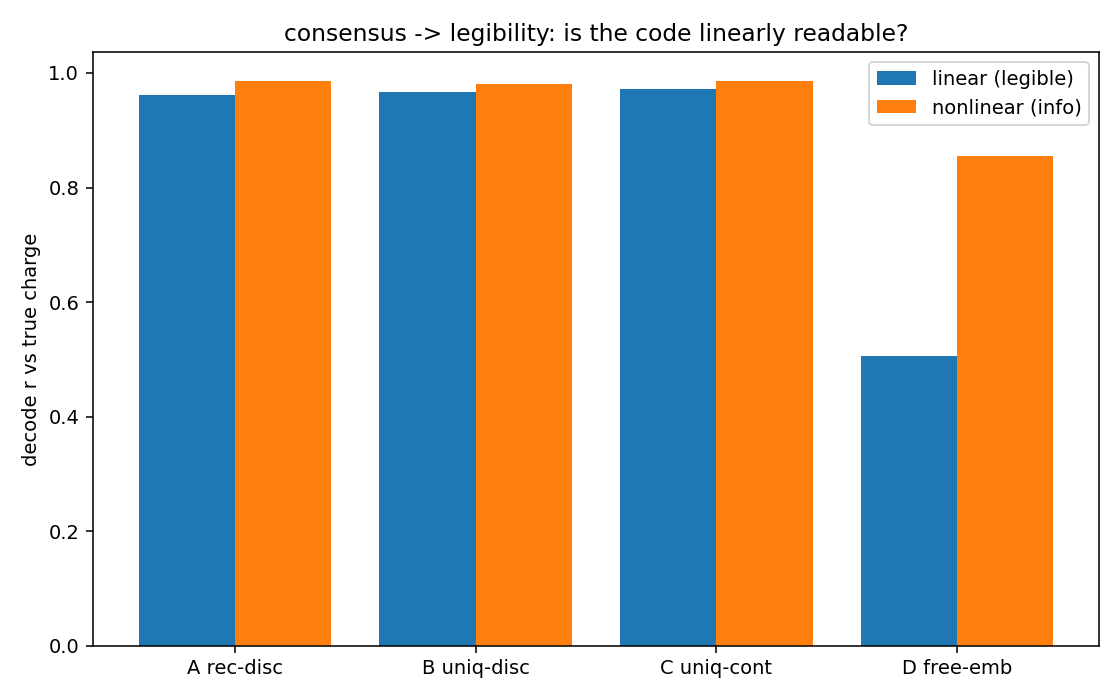
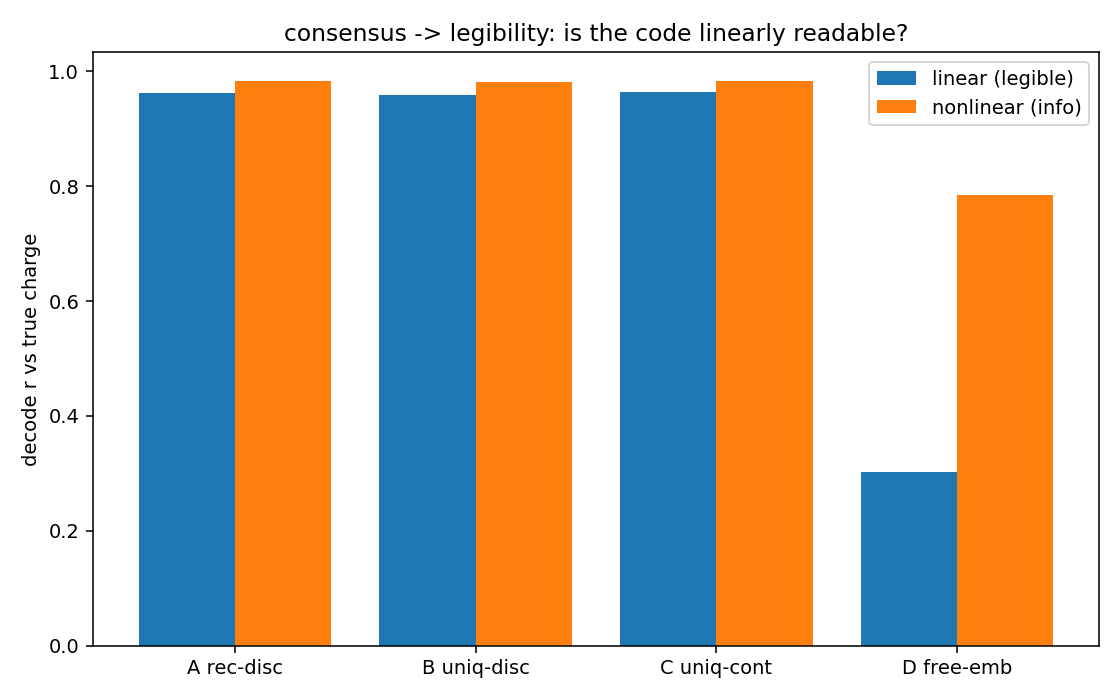
Docs consolidation: fold the full generalist arc (G, I, H) into all docs
Brings every doc current with the 2026-06-15 stretch so nothing is lost:
- CLAUDE.md status block: Phase G (data-scaling + G3 world-space prize), G-sym
  (symmetry frame + accuracy/legibility tension), Phase I (the legibility law:
  amortization, not agreement), Phase H row 1 (knee=2) + row 2 (Wong boundary),
  the synthesis, and a refreshed queue (orthogonal-F Wong v3, entanglement
  bridge Phase J, friction/equivalence-breaking rows).
- README curvature row: G/H/I one-liners.
- curvature_field_guide.md: new "7.5 The generalist arc" section (G, G-sym, I, H),
  patterns updated (legibility question now answered; stage/actor = a symmetry),
  never-tried refreshed (orthogonal-F, geometry-from-entanglement).
- emergent_geometry.md: generalist-arc paragraph in "where it goes next" (full
  polish deferred to the user's weekend pass).
- 29_consensus.json/.png updated to the final 3-seed run.

diff --git a/writeups/curvature_field_guide.md b/writeups/curvature_field_guide.md
@@ -1,9 +1,11 @@
 # The Curvature Project — Complete Field Guide
 
-*Everything we did in Phases A→E (and all side quests): what each experiment was,
-how it actually worked, what it found, what surprised us, and — most importantly —
-the threads we noticed but never pulled. Written plainly, for thinking with.
-(The polished narrative is `emergent_geometry.md`; this is the workshop version.)*
+*Everything we did, Phases A→E through the generalist arc (F-closed, G, the
+legibility law I, and the H geometrization survey) and all side quests: what each
+experiment was, how it actually worked, what it found, what surprised us, and —
+most importantly — the threads we noticed but never pulled. Written plainly, for
+thinking with. (The polished narrative is `emergent_geometry.md`; this is the
+workshop version.)*
 
 ---
 
@@ -301,26 +303,105 @@ relabeling can fake. The project's title question, closed.
   width binds — **knee-counting needs near-oracle inference**. Parked with that
   honest verdict. (The projective smear — "the code carries a direction, not a
   vector" — was predicted by your second-opinion session and visible in our data.)
-- **Phase F (current, the law itself):** matter configs → geometry, trajectories
-  only. Honest null so far — but the one gate that PASSED is provocative: field
-  *direction* superposes on never-seen 3-mass worlds (cos 0.965) while magnitude
-  fails. Diagnostics proved the wall is the CNN's local receptive field vs the
-  long-range 1/r kernel (can't even overfit one batch; capacity and data don't
-  help). The RF sweep now running is the clean one-knob proof. Honest context:
-  this corner overlaps the established neural-operator field (FNO etc.) — the
-  fix is known science; remaining novelty here is modest.
+- **Phase F (the law itself) — CLOSED, honest null.** matter configs → geometry,
+  trajectories only. The one gate that PASSED is provocative: field *direction*
+  superposes on never-seen 3-mass worlds (cos 0.965) while magnitude fails.
+  Diagnostics proved the wall is the CNN's local receptive field vs the long-range
+  1/r kernel (can't even overfit one batch; capacity and data don't help); the RF
+  sweep confirmed F2 climbs 0.85→0.99 with reach. This corner overlaps the
+  established neural-operator field (FNO etc.) — fix is known science, novelty
+  modest — so F-v3 was deliberately skipped for the generalist arc below.
+
+---
+
+## 7½. The generalist arc — Phases G, I, H (the 2026-06-15 stretch)
+
+After Phase F, the project pivoted (user's redirect) from *one net per world* to
+**one generalist across all world families**, and from accuracy to a deeper
+question: **what makes a learned representation legible?**
+
+**Phase G — the generalist + its world-summary space.** A 2M-param transformer
+reads a handful of observations from *some* world (same-event pairs, trajectory
+snippets, matter blobs — family never given), pools a 64-number summary `w`, and
+answers queries. Data scaling (24k→60k→120k episodes) helps monotonically but the
+charge-gated families sit ~300× above the per-family specialist floor — the wall
+is the single global **mean-pool**, not data. The prize was never accuracy though:
+it's `w`. Probing it (G3): the families **cluster into a physics taxonomy** (ARI
+0.82 — flat spacetimes apart, pure-geometry wells isolated, the three
+EM-coupled worlds in one neighborhood), and **electromagnetism is its own region**
+— chargedE and magneticB sit 2× closer to each other than to gravity (z=27 vs a
+shuffled null). The net drew a map of *laws*, unprompted. (Ties straight to the
+It-from-Qubit "is there a geometry to the space of laws?" thread.)
+
+**The dilemma, and how a symmetry dissolved it (Phase G-sym).** The mean-pool is
+**permutation-invariant over bodies** — which is the *equivalence principle in
+disguise*: an invariant code can only keep what survives relabeling bodies
+(geometry), and is structurally forbidden from keeping the tag→charge binding. So
+the stage/actor split isn't a design choice, it's the **invariant/equivariant
+decomposition under body-relabeling symmetry** — and imposing that symmetry is the
+same fair move as Phase A's boost-invariant head. (Frame contributed by a parallel
+Claude session; credited.) The fix: keep the invariant pool as the legible
+world-map *and* add an **equivariant per-body channel** (each query cross-attends
+to the context). It restored accuracy (chargedE 14×, twocharge 11.5×) and the
+per-body charge now decodes from the equivariant channel (0.91) — **but at a real
+cost: the world-map's clustering dropped (0.82→0.69) as per-body info migrated out
+of it.** Accuracy and legibility *trade off*; they are not free together.
+
+**Phase I — the legibility law (the stretch's headline).** *What selects
+legibility?* A clean factorial experiment (recurrence × discreteness, with a
+free-embedding reference) gave a sharp answer: recurrence and discreteness do
+**nothing**; the entire effect is **amortization**. A per-object code that a shared
+encoder must *infer from data* is **linearly legible for free** (r≈0.97); the same
+code stored as **free per-body parameters scrambles** (linear 0.50, info hiding in
+nonlinear 0.86 — the exact Phase C signature). So:
+
+> **Legibility is selected by amortization, not by agreement or discreteness.**
+> The famous Phase C "illegible charge code" was a *free-parameter artifact*, not a
+> property of charge. Want a legible per-object code? Don't store it — *infer* it.
+
+(This also overturned a tempting "consensus → legibility" bet from the parallel
+session — the question was right, the mechanism wasn't.)
+
+**Phase H — the geometrization survey.** *Which particle-like labels become hidden
+lanes?*
+- **Row 1, two independent charges:** the practical lane-count knee lands at
+  **exactly 2** (behavioral counting, where bottleneck-counting failed in steps
+  11–12); both charges decode behaviorally at r≈0.9997; a never-seen body is
+  pinned from ~4 observed trajectories.
+- **Row 2, Wong color charge (the crown, and a boundary):** a classical SU(2)
+  charge that *parallel-transports* — it rotates as the body moves, with |Q|
+  conserved (Wong 1970, verified). Result: amortization **legibly encodes the
+  static charge** Q₀ (linear 0.79–0.92, Phase I confirmed in a new setting), **but
+  the rotating Q(t) is tracked only nonlinearly** (linear 0.29–0.46 / nonlinear
+  0.66–0.76) and |Q| isn't conserved. **The refinement: amortization buys
+  legibility for *static* codes, but a generic recurrent update re-scrambles a
+  *dynamic* conserved quantity as it evolves.** Static labels geometrize (electric
+  charge, color Q₀); the dynamic SU(2) rotation does not — a sharp survey boundary.
+
+**The synthesis of the stretch (one sentence):** *amortize and you get legibility
+for free — but only for static codes; representing a dynamic conserved quantity
+legibly needs structure that preserves its invariant, which a plain learned update
+does not provide.*
 
 ---
 
 ## 8. The recurring patterns (the real harvest, maybe)
 
-1. **Gauge freedom is everywhere.** Phase B's per-anchor relabeling, C's
-   illegible embeddings, MDL's lookup-table code, D-v2's Lagrangian equivalence
-   class, E's global scale. Every honest gate we built works by finding the
-   quantity that *survives* the freedom. The deep question we never asked
-   head-on: **what kind of training pressure selects the HUMAN-legible gauge?**
-   Nature's laws are written in the elegant gauge — why? Can a system be made to
-   prefer it?
+1. **Gauge freedom is everywhere** — and we finally got a partial answer to the
+   deep question. Phase B's per-anchor relabeling, C's illegible embeddings, MDL's
+   lookup-table code, D-v2's Lagrangian equivalence class, E's global scale: every
+   honest gate works by finding the quantity that *survives* the freedom. The
+   question we'd never asked head-on — *what selects the human-legible gauge?* —
+   **Phase I answered for per-object codes: amortization.** A code inferred by a
+   shared encoder lands in the legible (linear) gauge for free; a free per-object
+   parameter scrambles. (Refinement from Wong row 2: this holds for *static* codes
+   only — a generic recurrent update re-scrambles a dynamic one. Selecting the
+   legible gauge for *dynamics* needs invariant-preserving structure — open.)
+5. **The stage/actor split is a symmetry, not a choice** (Phase G-sym). What's
+   shared by all bodies (geometry) vs what distinguishes them (charge) is exactly
+   the invariant/equivariant decomposition under body-relabeling — the equivalence
+   principle, re-derived as representation theory. It re-derives Phase C's
+   0-vs-1-number-per-body count from symmetry alone.
 2. **Behavioral probes beat structural probes.** Every time we tested *what the
    net does* (swap tests, trajectory inversion, zero-shot fitting), we got clean
    answers; every time we tested *what the net looks like inside* (PCA, linear
@@ -337,6 +418,16 @@ relabeling can fake. The project's title question, closed.
 
 ## 9. Things explicitly never tried (raw list for your thinking)
 
+- **The orthogonal/Hamiltonian update (the live open thread from Wong row 2):** an
+  update F that conserves |w| by construction (ẇ = Ω(state)·w, Ω antisymmetric →
+  a learned rotation). Does *structure* recover the legible, conserved dynamic
+  charge that amortization alone couldn't? The cleanest next experiment.
+- **"Geometry from entanglement" (Phase J candidate — the It-from-Qubit bridge):**
+  train only on the mutual-information table of a quantum lattice's ground state,
+  test whether the net builds the right spatial geometry; replicate Van Raamsdonk's
+  pinch-off as a behavioral gate; look for hyperbolic curvature at criticality
+  (You–Qi 2018). Free-fermion states are classically computable → Mac-buildable.
+  This is the one that closes the loop back to the original black-hole chat.
 - Time-dependent geometry (moving/oscillating wells; the road to gravitational
   *waves* in a toy).
 - Relativistic-regime learning (we measured the post-Newtonian gap in Phase C's
@@ -350,7 +441,9 @@ relabeling can fake. The project's title question, closed.
 - Discrete/graph worlds (does geometry emerge without a continuum?).
 - Making curvature the *bottleneck* rather than the readout.
 - A communication game: two nets must AGREE on a description of the same world —
-  does the shared protocol converge to the legible gauge? (Ties to pattern #1.)
+  does the shared protocol converge to the legible gauge? (Note: Phase I tested
+  the related "recurrence → legibility" and it was the AMORTIZATION axis that
+  mattered, not agreement — so reframe this if revisited.)
 - The thermodynamic corner: your original black-hole interests (horizons,
   entropy, S = A/4) never met the learning experiments at all. There is no
   horizon anywhere in our toys.

diff --git a/CLAUDE.md b/CLAUDE.md
@@ -271,17 +271,58 @@ results in `curvature/notes/lab_notebook.md`.
   invariant+magnetic artifacts. (echoes+ringdown asserts moved to
   `../BlackHole/verify.sh`.) **Run it after any curvature change; a result
   isn't real until the gate is green.**
-- **PHASE G + H NOW (2026-06-15):** Phase H row 1 (two-charge lanes, script
-  24/24b/24c) CLOSED — knee exactly at L=2, H3 behavioral decode r=0.9996/
-  0.9998 both charges, H4 zero-shot works from ~4 observed trajectories (k=1
-  fails by identifiability — recorded). Phase G generalist (script 25 worldgen
-  + 26 transformer, 2.01M params) built; first 30k run UNDERFIT (2/8 G1 rows),
-  fix round = resume to 150k steps running detached on MPS. Gates G1/G2/G3 +
-  pre-registrations in curvature/notes/lab_notebook.md; design in
-  curvature/notes/phase_g_design.md.
-- Remaining curvature queue: finish Phase G 150k run + G1/G2/G3 gates; Phase H
-  rows 2+ (Wong color charge — verify toy eqns by web search first); 3+1 Kaluza
-  with vector potential; writeup polish (user, weekends).
+- **PHASE H ROW 1 — two-charge lanes (24/24b/24c) CLOSED:** knee exactly at L=2;
+  H3 behavioral decode r=0.9996/0.9998 both charges; H4 zero-shot from ~4
+  trajectories (k=1 fails by identifiability — recorded).
+- **PHASE G — the generalist (scripts 25 worldgen / 26 transformer, 2.01M):**
+  data-scaling curve (24k/60k/120k episodes) SCALES monotonically (no plateau),
+  but the charge-gated traj families sit ~300× above the two-charge specialist
+  floor (1.2e-4) → the wall is ARCHITECTURE (the single global mean-pool), not
+  data. **G2 zero-shot PASS** (+25% wider worlds, traj ratio 1.0). **G3 prize —
+  the world-summary space (script 27):** G3a families cluster (ARI 0.82, the PCA
+  map reads as a physics taxonomy); **G3c EM-kinship** chargedE↔magneticB sit 2×
+  closer to each other than to gravity (z=27) — the net carved "force gated by a
+  per-body charge" as its own region of law-space (ties to It-from-Qubit).
+- **PHASE G-sym — symmetry-respecting generalist (script 28, frame from a
+  parallel Claude session, credited):** the mean-pool is body-relabeling
+  INVARIANCE (equivalence principle in disguise) — keeps body-symmetric info
+  (geometry), drops the tag→charge binding. Fix = invariant stage pool +
+  EQUIVARIANT per-body cross-attention channel. After catching a degenerate-tag
+  confound + a STALE-DATA trap (merged old shards — "file exists ≠ fresh"; both
+  logged), clean run: **A1 accuracy restored** (chargedE 14×, twocharge 11.5×),
+  per-body charge decodes from the equivariant channel (chargedE 0.91), **but a
+  real ACCURACY↔LEGIBILITY tension** — stage clustering drops 0.82→0.69 as
+  per-body info migrates out. magneticB a consistent special case (v×B
+  velocity-gated).
+- **PHASE I — consensus→legibility (script 29), THE session's law:** tested
+  "agreement/recurrence selects legibility" with a discreteness control (3
+  seeds). Recurrence (−0.004) and discreteness (−0.005) do NOTHING; **amortize-
+  vs-free-embedding (+0.466) is the whole effect. Legibility is selected by
+  AMORTIZATION, not agreement:** a code a shared encoder INFERS is linearly
+  legible for free (r~0.97); a free per-body parameter scrambles (linear 0.50,
+  info in nonlinear 0.86). The Phase C illegible q/m code was a FREE-PARAMETER
+  artifact. Consensus bet (parallel session) falsified; their question was right.
+- **PHASE H ROW 2 — Wong color charge (scripts 30/30b/31), CLOSED, honest
+  boundary:** classical SU(2) charge that parallel-transports (rotates, |Q|
+  conserved; web-verified Wong 1970). v1 negative (confounded: 12° precession +
+  free embedding + n=32). v2 (amortized code + ×6 field → 90° + n=200) + fix:
+  **W3b ✓✓ amortization legibilizes the STATIC charge** Q0 (linear 0.79–0.92 vs
+  v1 ~0 — Phase I cross-validated), **but the ROTATING Q(t) is tracked only
+  NONLINEARLY** (linear 0.29–0.46 / nonlinear 0.66–0.76) and **|Q| not conserved**
+  (drift 0.47). **Refinement of Phase I: amortization buys legibility for STATIC
+  codes; a DYNAMIC conserved quantity needs an invariant-preserving update — a
+  generic recurrent F re-scrambles the clean w0 as it evolves.** Survey boundary:
+  static labels geometrize (electric, color Q0); the dynamic rotation does not.
+- **THE SESSION SYNTHESIS (the legibility law):** amortize → legible (static);
+  evolve through a generic net → re-scrambled (dynamic). Open thread (next
+  candidate): an orthogonal/Hamiltonian update F that conserves |w| by
+  construction — does STRUCTURE recover the legible rotation? Other survey rows
+  open: friction (predicted failure), equivalence-breaking gravity.
+- Remaining curvature queue: the orthogonal-F Wong v3 (open thread above); other
+  Phase H rows (friction, equivalence-breaking); a G-sym legibility-preserving
+  variant; the deferred Phase J "geometry from entanglement" (It-from-Qubit
+  bridge, in writeups/curvature_field_guide never-tried list); 3+1 Kaluza with
+  vector potential; writeup polish (user, weekends).
 - Wakeup policy (user 2026-06-11): SHORT delays (60-90s) between iterations;
   long delays only as fallback while harness-tracked jobs run.
 - **FOCUS DIRECTIVE (user, 2026-06-13): curvature ONLY until mined out.**

diff --git a/writeups/emergent_geometry.md b/writeups/emergent_geometry.md
@@ -273,6 +273,20 @@ Caveats live in the lab notebook next to each result.
   in its own currency: *a network watched things move, built a geometry, and
   that geometry has the right curvature.*
 
+- **The generalist arc (run — Phases G, I, H; full account in
+  `curvature_field_guide.md` §7½, to be folded into this narrative on a polish
+  pass):** one transformer across all eight world families builds an internal
+  **map of laws** that clusters into a physics taxonomy (electromagnetism as its
+  own region, 2× closer to itself than to gravity). Studying *why* parts of that
+  map are legible produced the arc's headline — **the legibility law: a per-object
+  code is linearly legible exactly when it is *amortized* (inferred by a shared
+  encoder), not stored as free parameters** (the old "illegible charge" was a
+  free-parameter artifact). The geometrization survey then mapped the boundary:
+  two independent charges become exactly two hidden lanes; a *static* particle
+  label geometrizes legibly, but a *dynamic* conserved one (Wong's rotating color
+  charge) is tracked only illegibly — legible dynamics would need an
+  invariant-preserving update, the live open thread.
+
 ---
 
 *Repo: the `curvature/` sub-project. Methods: `curvature/README.md` (decisions

diff --git a/README.md b/README.md
@@ -23,7 +23,7 @@ against the literature before it goes in, with sources cited in each doc.
 | **[JOURNAL.md](JOURNAL.md)** | 📓 The activity log — one dated entry per working session. |
 | **[writeups/emergent_geometry.md](writeups/emergent_geometry.md)** | ⭐ **The shareable note, now complete:** five acts — interval → light cone → gravity well → why gravity geometrizes (0 vs ~10 bits/body) → **the Kaluza ending** (charge migrates into an internal coordinate, r = 0.9998). With methods, failed-probe corrections, and honest limits. Start here. |
 | **[writeups/curvature_field_guide.md](writeups/curvature_field_guide.md)** | 🧰 **The workshop version** — every phase A→E + all side quests: setups, mechanisms, numbers, corrections, the recurring patterns (gauge freedom; behavioral > structural probes; universality geometrizes), and the explicit list of **threads never pulled**. The document to think and argue with. |
-| **[curvature/](curvature/README.md)** | 🧠 *The main thread (the whole repo now):* can a network **invent spacetime geometry** from raw observations? **Phases A → E all passed** + the Kaluza move (charge → internal coordinate, r = 0.9998) + the Gaussian curvature read out coordinate-free (corr 0.99). Now in **Phase G** (one generalist net across all world families — studying its internal world-summary space) and **Phase H** (which particle-like labels become hidden "lanes": two-charge knee lands at exactly 2). |
+| **[curvature/](curvature/README.md)** | 🧠 *The main thread (the whole repo now):* can a network **invent spacetime geometry** from raw observations? **Phases A → E all passed** + the Kaluza move (charge → internal coordinate, r = 0.9998) + the Gaussian curvature read out coordinate-free (corr 0.99). **Phase G** — one generalist across all world families: its internal world-summary space clusters into a physics taxonomy (ARI 0.82) with electromagnetism as its own region (EM-kinship z=27). **Phase H** — which particle labels become hidden "lanes": two-charge knee at exactly 2; Wong color charge marks the boundary (static labels geometrize, the dynamic rotation doesn't). **Phase I** — the legibility law: *a per-object code is legible iff it's **amortized** (inferred by a shared encoder), not stored as free parameters.* |
 
 > **Black-hole LIGO projects moved out (2026-06-13):** `echoes/` (GW-echo search),
 > `ringdown_spectroscopy/` (no-hair test via SBI), and `primordial_blackhole_search/`